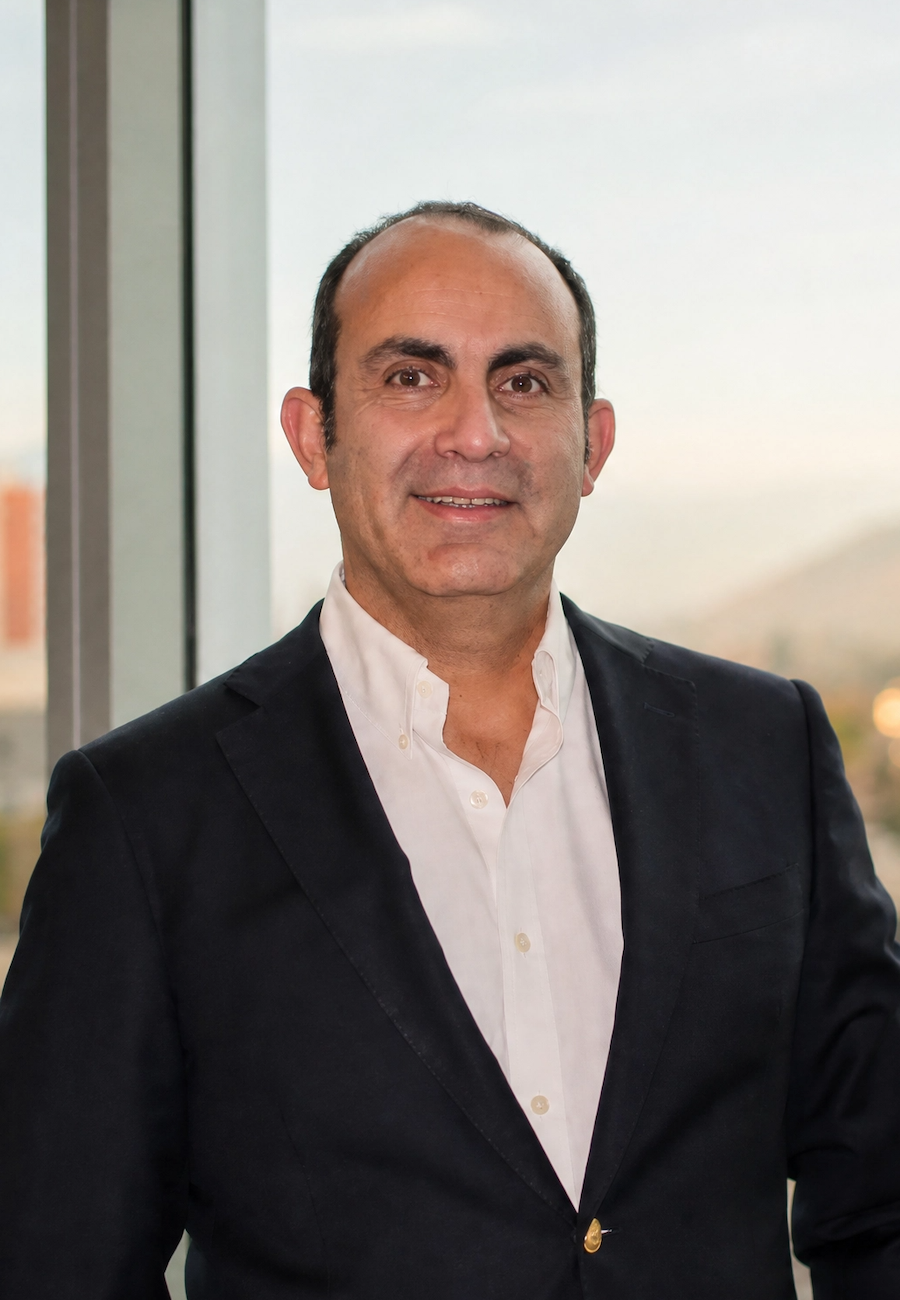
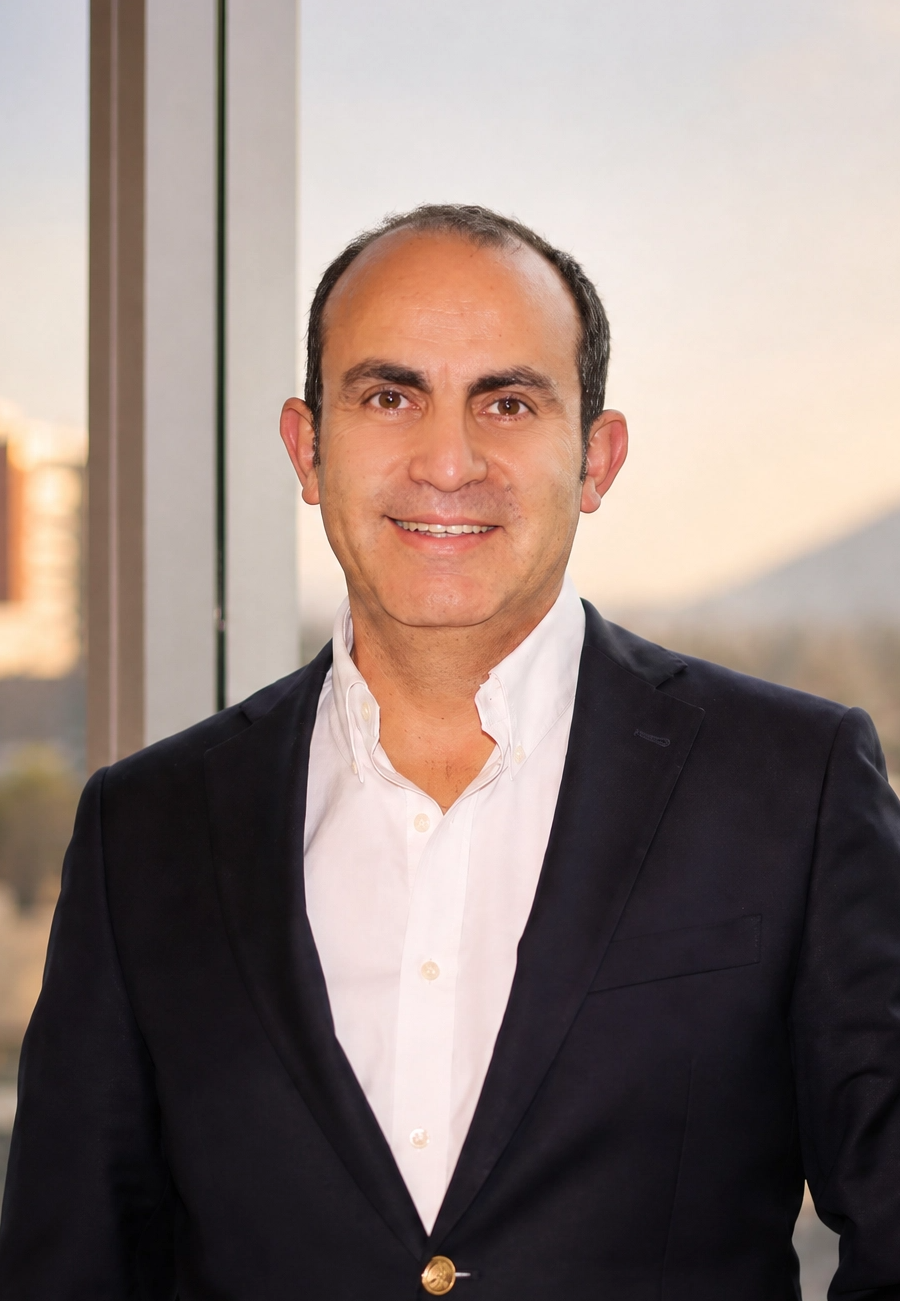
Add files via upload

diff --git a/script.js b/script.js
@@ -82,6 +82,58 @@
       calcularSimulador();
     }
 
+    // Autoformato de RUT chileno -> 12.345.678-9
+    var rutInput = document.getElementById('rut');
+    if (rutInput) {
+      var formatRut = function (value) {
+        var clean = value.replace(/[^0-9kK]/g, '').toUpperCase();
+        if (clean.length <= 1) return clean;
+        var body = clean.slice(0, -1);
+        var dv = clean.slice(-1);
+        body = body.replace(/\B(?=(\d{3})+(?!\d))/g, '.');
+        return body + '-' + dv;
+      };
+      // Validación real del dígito verificador (módulo 11)
+      var validarRut = function (value) {
+        var clean = value.replace(/[^0-9kK]/g, '').toUpperCase();
+        if (clean.length < 2) return false;
+        var body = clean.slice(0, -1);
+        var dv = clean.slice(-1);
+        if (!/^\d+$/.test(body)) return false;
+        var sum = 0, mul = 2;
+        for (var i = body.length - 1; i >= 0; i--) {
+          sum += parseInt(body.charAt(i), 10) * mul;
+          mul = mul === 7 ? 2 : mul + 1;
+        }
+        var resto = 11 - (sum % 11);
+        var dvCalc = resto === 11 ? '0' : (resto === 10 ? 'K' : String(resto));
+        return dvCalc === dv;
+      };
+      var rutOk = document.getElementById('rutOk');
+      var rutBad = document.getElementById('rutBad');
+      var mostrarIcono = function (estado) {
+        if (rutOk) rutOk.classList.toggle('hidden', estado !== 'ok');
+        if (rutOk) rutOk.classList.toggle('flex', estado === 'ok');
+        if (rutBad) rutBad.classList.toggle('hidden', estado !== 'bad');
+        if (rutBad) rutBad.classList.toggle('flex', estado === 'bad');
+      };
+      var revisarRut = function () {
+        if (rutInput.value === '') {
+          rutInput.setCustomValidity('');
+          mostrarIcono('none');
+          return;
+        }
+        var ok = validarRut(rutInput.value);
+        rutInput.setCustomValidity(ok ? '' : 'Ingresa un RUT válido (ej: 12.345.678-9)');
+        mostrarIcono(ok ? 'ok' : 'bad');
+      };
+      rutInput.addEventListener('input', function () {
+        rutInput.value = formatRut(rutInput.value);
+        revisarRut();
+      });
+      rutInput.addEventListener('blur', revisarRut);
+    }
+
     // Formulario de contacto (demo — sin backend)
     var form = document.getElementById('leadForm');
     if (form) {

diff --git a/contact.html b/contact.html
@@ -112,9 +112,18 @@
                   class="w-full rounded-2xl border border-cloud bg-mist/50 px-4 py-3 text-inkc placeholder-inkc/40 focus:bg-white focus:border-blue focus:ring-2 focus:ring-blue/20 outline-none transition" />
               </div>
               <div>
-                <label for="empresa" class="block text-sm font-semibold text-inkc/70 mb-1.5">Rut</label>
-                <input id="empresa" name="empresa" type="text" placeholder="Razón social"
-                  class="w-full rounded-2xl border border-cloud bg-mist/50 px-4 py-3 text-inkc placeholder-inkc/40 focus:bg-white focus:border-blue focus:ring-2 focus:ring-blue/20 outline-none transition" />
+                <label for="rut" class="block text-sm font-semibold text-inkc/70 mb-1.5">RUT</label>
+                <div class="relative">
+                  <input id="rut" name="rut" type="text" required inputmode="numeric" maxlength="12" autocomplete="off" placeholder="12.345.678-9"
+                    class="w-full rounded-2xl border border-cloud bg-mist/50 px-4 py-3 pr-11 text-inkc placeholder-inkc/40 focus:bg-white focus:border-blue focus:ring-2 focus:ring-blue/20 outline-none transition" />
+                  <!-- Indicador de validez -->
+                  <span id="rutOk" class="hidden absolute inset-y-0 right-3.5 items-center text-emerald-500" aria-hidden="true">
+                    <svg class="w-5 h-5" viewBox="0 0 24 24" fill="none" stroke="currentColor" stroke-width="2.5" stroke-linecap="round" stroke-linejoin="round"><polyline points="20 6 9 17 4 12"/></svg>
+                  </span>
+                  <span id="rutBad" class="hidden absolute inset-y-0 right-3.5 items-center text-red-500" aria-hidden="true">
+                    <svg class="w-5 h-5" viewBox="0 0 24 24" fill="none" stroke="currentColor" stroke-width="2.5" stroke-linecap="round" stroke-linejoin="round"><line x1="18" y1="6" x2="6" y2="18"/><line x1="6" y1="6" x2="18" y2="18"/></svg>
+                  </span>
+                </div>
               </div>
             </div>
             <div class="grid sm:grid-cols-2 gap-5">
@@ -125,13 +134,13 @@
               </div>
               <div>
                 <label for="telefono" class="block text-sm font-semibold text-inkc/70 mb-1.5">Teléfono</label>
-                <input id="telefono" name="telefono" type="tel" placeholder="+56 9 ..."
+                <input id="telefono" name="telefono" type="tel" required placeholder="+56 9 ..."
                   class="w-full rounded-2xl border border-cloud bg-mist/50 px-4 py-3 text-inkc placeholder-inkc/40 focus:bg-white focus:border-blue focus:ring-2 focus:ring-blue/20 outline-none transition" />
               </div>
             </div>
             <div>
               <label for="mensaje" class="block text-sm font-semibold text-inkc/70 mb-1.5">¿En qué te ayudamos?</label>
-              <textarea id="mensaje" name="mensaje" rows="4" placeholder="Cuéntanos brevemente sobre tu necesidad de liquidez"
+              <textarea id="mensaje" name="mensaje" rows="4" required placeholder="Cuéntanos brevemente sobre tu necesidad de liquidez"
                 class="w-full rounded-2xl border border-cloud bg-mist/50 px-4 py-3 text-inkc placeholder-inkc/40 focus:bg-white focus:border-blue focus:ring-2 focus:ring-blue/20 outline-none transition resize-none"></textarea>
             </div>
 

diff --git a/index.html b/index.html
@@ -67,7 +67,7 @@
     <section class="relative overflow-hidden pt-28 md:pt-36 pb-20 md:pb-28">
       <!-- Fondo: imagen + overlay claro (reemplaza la URL por una imagen propia) -->
       <div class="absolute inset-0 -z-20 bg-cover bg-center"
-           style="background-image:url('Img/bg.webp');"></div>
+           style="background-image:url('Img/edificio_mejorado.png');"></div>
       <div class="absolute inset-0 -z-10"
            style="background:radial-gradient(1100px 600px at 78% 0%, rgba(43,166,224,0.10), transparent 60%), linear-gradient(90deg, rgba(255,255,255,0.30) 0%, rgba(255,255,255,0.12) 45%, rgba(255,255,255,0) 100%);"></div>
       <div class="max-w-7xl mx-auto px-5 sm:px-8 grid lg:grid-cols-2 gap-14 lg:gap-10 items-center">